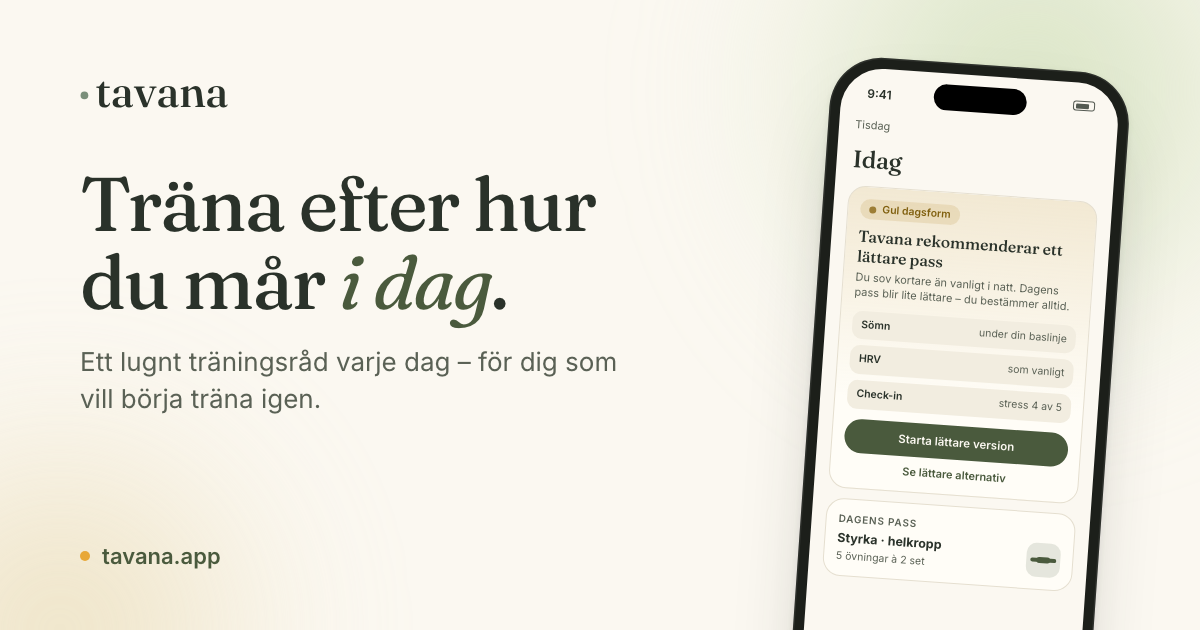
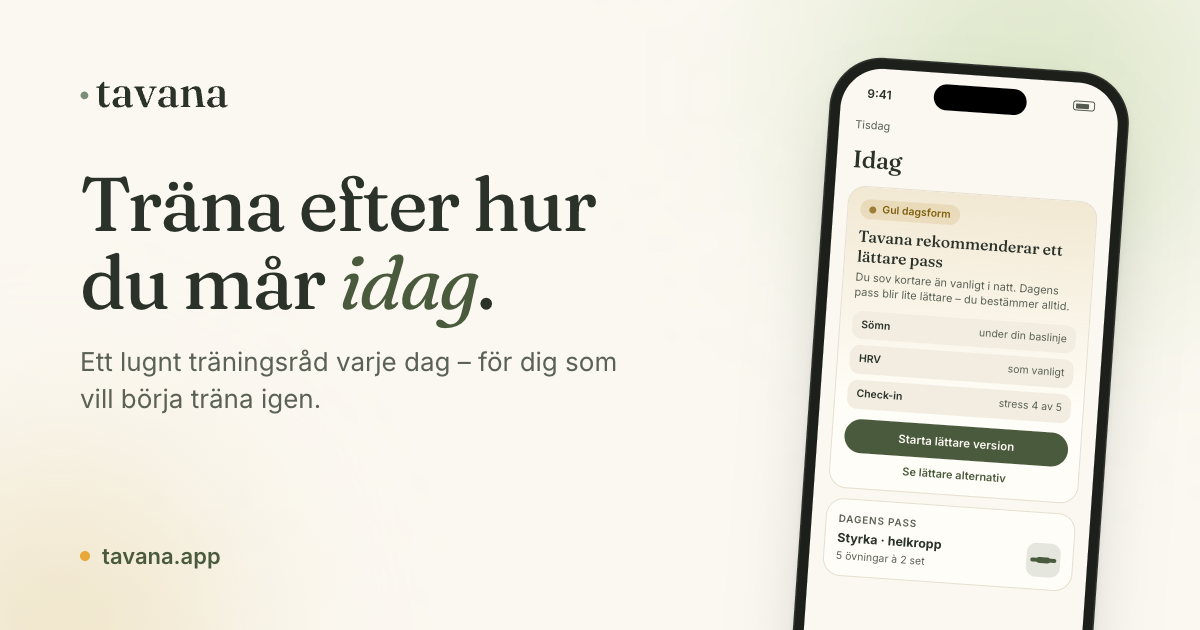
Spell idag and imorgon closed on Swedish pages

Changed region(s): [[0.2775, 0.3921, 0.4317, 0.5429]]

diff --git a/index.html b/index.html
@@ -16,13 +16,13 @@
 <!-- APP-BANNER:START --><!-- <meta name="apple-itunes-app" content="app-id=FYLL-I"> --><!-- APP-BANNER:END -->
 <meta property="og:type" content="website">
 <meta property="og:site_name" content="Tavana">
-<meta property="og:title" content="Tavana – träna efter hur du mår i dag">
+<meta property="og:title" content="Tavana – träna efter hur du mår idag">
 <meta property="og:description" content="Ett lugnt, begripligt träningsråd varje dag utifrån sömn, återhämtning och en kort check-in. För dig som vill komma tillbaka till träningen.">
 <meta property="og:url" content="https://tavana.app/">
 <meta property="og:image" content="https://tavana.app/assets/og-sv.png">
 <meta property="og:image:width" content="1200">
 <meta property="og:image:height" content="630">
-<meta property="og:image:alt" content="Tavana – Träna efter hur du mår i dag. En telefon visar rådet ”Tavana rekommenderar ett lättare pass”.">
+<meta property="og:image:alt" content="Tavana – Träna efter hur du mår idag. En telefon visar rådet ”Tavana rekommenderar ett lättare pass”.">
 <meta property="og:locale" content="sv_SE">
 <meta property="og:locale:alternate" content="en_GB">
 <meta name="twitter:card" content="summary_large_image">
@@ -72,7 +72,7 @@
   <div class="wrap hero-grid">
     <div class="hero-copy">
       <p class="eyebrow">För dig som vill börja träna igen</p>
-      <h1 id="hero-title">Träna efter hur du mår <em>i&nbsp;dag</em>.</h1>
+      <h1 id="hero-title">Träna efter hur du mår <em>idag</em>.</h1>
       <p class="lead">Kort natt, tung vecka, första passet på länge? Tavana läser av sömn, återhämtning och en snabb check-in och ger dig ett lugnt råd varje dag – styrka, kondition, återhämtning eller vila. Med en förklaring. Utan poäng och utan dåligt samvete.</p>
 
       <div class="cta" id="ladda-ned">
@@ -100,7 +100,7 @@
     <div class="hero-visual">
       <div class="float-card float-a" aria-hidden="true">
         <span class="dot dot-amber"></span>
-        <span><strong>Gul i dag</strong>jämfört med din egen baslinje</span>
+        <span><strong>Gul idag</strong>jämfört med din egen baslinje</span>
       </div>
       <div class="float-card float-b" aria-hidden="true">
         <span class="dot dot-green"></span>
@@ -246,7 +246,7 @@
         <li class="reveal">
           <span class="when">Passet</span>
           <h3>Ett set i taget</h3>
-          <p>Du följer passet övning för övning, set för set, med instruktioner. Känns en övning för tung i dag? Byt till en lättare variant direkt. Känns den för lätt? Ta ett steg upp.</p>
+          <p>Du följer passet övning för övning, set för set, med instruktioner. Känns en övning för tung idag? Byt till en lättare variant direkt. Känns den för lätt? Ta ett steg upp.</p>
         </li>
         <li class="reveal">
           <span class="when">Efteråt</span>
@@ -314,7 +314,7 @@
       </li>
       <li class="state state-red reveal">
         <h3><span class="dot dot-red" aria-hidden="true"></span>Röd</h3>
-        <span class="tag">I dag är återhämtning rätt val.</span>
+        <span class="tag">Idag är återhämtning rätt val.</span>
         <p>Signalerna avviker tydligt från din baslinje, eller så har du angett att du är sjuk. Då föreslås återhämtning eller vila – ingen ikappträning behövs.</p>
       </li>
     </ul>
@@ -398,7 +398,7 @@
     <div class="faq">
       <details>
         <summary>Jag har inte tränat på länge. Passar Tavana mig?</summary>
-        <p>Ja – det är just dig vi har tänkt på. Du börjar med tre korta frågor, inget program startar automatiskt, och du kan alltid byta en övning mot en lättare variant. Rådet utgår från hur du mår i dag, inte från var du var för två år sedan.</p>
+        <p>Ja – det är just dig vi har tänkt på. Du börjar med tre korta frågor, inget program startar automatiskt, och du kan alltid byta en övning mot en lättare variant. Rådet utgår från hur du mår idag, inte från var du var för två år sedan.</p>
       </details>
       <details>
         <summary>Måste jag koppla Apple Hälsa?</summary>
@@ -414,7 +414,7 @@
       </details>
       <details>
         <summary>Är dagsformen ett medicinskt råd?</summary>
-        <p>Nej. Den är ett stöd för hur du lägger upp träningen i dag, inte en hälsobedömning. Har du symtom eller frågor om din hälsa, kontakta vården.</p>
+        <p>Nej. Den är ett stöd för hur du lägger upp träningen idag, inte en hälsobedömning. Har du symtom eller frågor om din hälsa, kontakta vården.</p>
       </details>
       <details>
         <summary>Vad händer med min data?</summary>
@@ -438,7 +438,7 @@
     <div class="final-card">
       <img class="mark" src="/assets/apple-touch-icon.png" alt="" width="64" height="64">
       <h2 id="final">Nästa pass får gärna vara <em>ett lugnt pass</em>.</h2>
-      <p class="lead">Börja där du är. Tavana möter dig där – i dag, i morgon och de dagar som inte blev som du tänkt.</p>
+      <p class="lead">Börja där du är. Tavana möter dig där – idag, imorgon och de dagar som inte blev som du tänkt.</p>
       <div class="cta">
         <p class="cta-mode cta-soon soon-pill"><span class="live-dot" aria-hidden="true"></span>Kommer snart till iPhone</p>
         <a class="cta-mode cta-appstore store-badge" href="/app"><img src="/assets/badges/app-store-badge-sv-white.svg" alt="Ladda ned på App Store" loading="lazy" width="156" height="52"></a>
@@ -457,7 +457,7 @@
         <source srcset="/assets/logo-dark.svg" media="(prefers-color-scheme: dark)">
         <img src="/assets/logo.svg" alt="Tavana" width="132" height="40">
       </picture>
-      <p>Träning efter hur du mår i dag.</p>
+      <p>Träning efter hur du mår idag.</p>
     </div>
     <div>
       <nav aria-label="Sidfot">

diff --git a/privacy.html b/privacy.html
@@ -19,7 +19,7 @@
 <meta property="og:image" content="https://tavana.app/assets/og-sv.png">
 <meta property="og:image:width" content="1200">
 <meta property="og:image:height" content="630">
-<meta property="og:image:alt" content="Tavana – Träna efter hur du mår i dag.">
+<meta property="og:image:alt" content="Tavana – Träna efter hur du mår idag.">
 <meta property="og:locale" content="sv_SE">
 <meta name="twitter:card" content="summary_large_image">
 <link rel="icon" href="/assets/favicon-32.png" sizes="32x32" type="image/png">
@@ -113,7 +113,7 @@
     <ul><li><strong>Anthropic</strong> (USA): den data som står i avsnitt 6. Skydd: EU:s standardavtalsklausuler, som ingår i Anthropics biträdesavtal.</li><li><strong>Fly.io</strong> (amerikanskt bolag, servrar i Stockholm): EU-kommissionens standardavtalsklausuler (2021), som ingår i vårt biträdesavtal med Fly.io.</li><li><strong>Sentry</strong> (amerikanskt bolag, data i EU): EU–USA-ramverket för dataskydd (Data Privacy Framework), med EU:s standardavtalsklausuler som reserv, enligt Sentrys biträdesavtal.</li><li><strong>Vercel</strong> (webbplatsen): IP-adresser i webbplatsens åtkomstloggar kan behandlas i USA.</li></ul>
     <p>Du kan begära en kopia av skyddet genom att kontakta oss (avsnitt 15).</p>
     <h2 id="9-hur-lange-vi-sparar-uppgifter">9. Hur länge vi sparar uppgifter</h2>
-    <p>Vi sparar uppgifterna så länge du har ett konto, utom där det står något annat nedan. Vi har i dag <strong>ingen automatisk gallring</strong> av inaktiva konton.</p>
+    <p>Vi sparar uppgifterna så länge du har ett konto, utom där det står något annat nedan. Vi har idag <strong>ingen automatisk gallring</strong> av inaktiva konton.</p>
     <div class="table-wrap"><table><thead><tr><th scope="col">Uppgift</th><th scope="col">Hur länge</th></tr></thead><tbody><tr><td>Konto, profil, samtyckesval, pass, set, mallar, planer, mål, dagsform per dag, insikter och produkthändelser</td><td>Tills du raderar kontot (hälsouppgifter tidigare om du återkallar samtycket, avsnitt 4)</td></tr><tr><td>Detaljerade tidsstämplade dagsformshändelser (incheckning och bakgrundssynk)</td><td>30 dagar</td></tr><tr><td>Timvisa steg- och kaloriavläsningar</td><td>30 dagar</td></tr><tr><td>Händelser från ett pågående pass (från klocka eller telefon) för att kunna återförsöka</td><td>30 dagar</td></tr><tr><td>Inloggningssessioner</td><td>Tills sessionen löper ut (30 dagar efter senaste förnyelse) eller du loggar ut</td></tr><tr><td>Det som skickas till Anthropic (avsnitt 6)</td><td>Enligt Anthropic raderas indata och svar inom 30 dagar, utom om deras säkerhetssystem flaggar dem (upp till 2 år).</td></tr><tr><td>Felrapporter i Sentry</td><td>Upp till 90 dagar</td></tr><tr><td>Serverloggar hos Fly.io</td><td>Enligt Fly.io:s rutiner. Loggarna innehåller inte innehållet i dina anrop.</td></tr><tr><td>Säkerhetskopior hos Supabase</td><td>Upp till 7 dagar. Raderade uppgifter kan finnas kvar i säkerhetskopior tills de skrivits över.</td></tr><tr><td>Exportfiler som vi tar fram manuellt på begäran</td><td>Raderas inom 30 dagar efter leverans</td></tr></tbody></table></div>
     <p><strong>Om du raderar kontot.</strong> I appen: Profil, Inställningar, Radera konto. Då raderas ditt konto och allt som hör till det i vår databas, och data som sparats lokalt på telefonen rensas. Egna övningar du skapat raderas också, utom om någon annan använder dem; då blir de kvar utan koppling till dig.</p>
     <p><strong>Inloggning med Apple.</strong> Har du loggat in med Apple ber appen dig bekräfta med Apple när du raderar kontot. Då kopplar vi bort Tavana från ditt Apple-ID. Om bekräftelsen inte går igenom kan du välja "Radera ändå". Kontot raderas då ändå, men kopplingen hos Apple finns kvar tills du tar bort den själv i Apple-ID-inställningarna (Logga in med Apple). Är du inloggad med Google tar du bort kopplingen i ditt Google-konto.</p>
@@ -151,7 +151,7 @@ Policyn finns på <a href="https://tavana.app/privacy">https://tavana.app/privac
         <source srcset="/assets/logo-dark.svg" media="(prefers-color-scheme: dark)">
         <img src="/assets/logo.svg" alt="Tavana" width="132" height="40">
       </picture>
-      <p>Träning efter hur du mår i dag.</p>
+      <p>Träning efter hur du mår idag.</p>
     </div>
     <div>
       <nav aria-label="Sidfot">

diff --git a/terms.html b/terms.html
@@ -19,7 +19,7 @@
 <meta property="og:image" content="https://tavana.app/assets/og-sv.png">
 <meta property="og:image:width" content="1200">
 <meta property="og:image:height" content="630">
-<meta property="og:image:alt" content="Tavana – Träna efter hur du mår i dag.">
+<meta property="og:image:alt" content="Tavana – Träna efter hur du mår idag.">
 <meta property="og:locale" content="sv_SE">
 <meta name="twitter:card" content="summary_large_image">
 <link rel="icon" href="/assets/favicon-32.png" sizes="32x32" type="image/png">
@@ -70,7 +70,7 @@
     <h2 id="5-konto-och-inloggning">5. Konto och inloggning</h2>
     <ul><li>Du loggar in med Apple eller Google. Du ansvarar för att skydda ditt konto.</li><li>Uppgifterna du lämnar ska vara riktiga.</li><li>Du kan när som helst exportera dina uppgifter i appen (Inställningar, Integritet) och radera kontot i appen (Inställningar, Radera konto). Raderingen går inte att ångra. Vad som händer med dina uppgifter står i integritetspolicyn. Mer om radering: <a href="https://tavana.app/delete-account">https://tavana.app/delete-account</a>.</li><li>Vi kan stänga av ett konto som bryter mot villkoren (avsnitt 8), efter förvarning om det inte är akut.</li></ul>
     <h2 id="6-pris-och-framtida-betalfunktioner">6. Pris och framtida betalfunktioner</h2>
-    <p><strong>I dag är tjänsten gratis.</strong> Det finns inga köp i appen och du debiteras ingenting. Alla funktioner som finns i appen är tillgängliga för alla användare.</p>
+    <p><strong>Idag är tjänsten gratis.</strong> Det finns inga köp i appen och du debiteras ingenting. Alla funktioner som finns i appen är tillgängliga för alla användare.</p>
     <p>Några funktioner har en hög användningsgräns per dygn som skydd mot överbelastning och missbruk, till exempel när du lägger till egna övningar. Gränsen ligger långt över normal användning.</p>
     <p><strong>När betalfunktioner införs.</strong> Vi planerar att senare erbjuda vissa funktioner mot betalning. Innan något kostar pengar kommer vi att:</p>
     <ul><li>tydligt visa i appen vad som kostar, vad det kostar och vad som fortsätter vara gratis,</li><li>uppdatera dessa villkor med prenumerationsvillkoren och meddela dig enligt avsnitt 14,</li><li>aldrig debitera dig utan att du själv har bekräftat ett köp i App Store.</li></ul>
@@ -110,7 +110,7 @@ Support och integritetsfrågor: <a href="mailto:support@tavana.app">support@tava
         <source srcset="/assets/logo-dark.svg" media="(prefers-color-scheme: dark)">
         <img src="/assets/logo.svg" alt="Tavana" width="132" height="40">
       </picture>
-      <p>Träning efter hur du mår i dag.</p>
+      <p>Träning efter hur du mår idag.</p>
     </div>
     <div>
       <nav aria-label="Sidfot">

diff --git a/support.html b/support.html
@@ -19,7 +19,7 @@
 <meta property="og:image" content="https://tavana.app/assets/og-sv.png">
 <meta property="og:image:width" content="1200">
 <meta property="og:image:height" content="630">
-<meta property="og:image:alt" content="Tavana – Träna efter hur du mår i dag.">
+<meta property="og:image:alt" content="Tavana – Träna efter hur du mår idag.">
 <meta property="og:locale" content="sv_SE">
 <meta name="twitter:card" content="summary_large_image">
 <link rel="icon" href="/assets/favicon-32.png" sizes="32x32" type="image/png">
@@ -70,7 +70,7 @@
     <h3>Måste jag koppla Apple Hälsa?</h3>
     <p>Nej. Med Apple Hälsa kan rådet ta hänsyn till sömn, HRV och vilopuls. Utan bygger det på det du själv anger.</p>
     <h3>Är dagsformen ett medicinskt råd?</h3>
-    <p>Nej. Den är ett stöd för hur du lägger upp träningen i dag. Har du symtom eller frågor om din hälsa, kontakta vården.</p>
+    <p>Nej. Den är ett stöd för hur du lägger upp träningen idag. Har du symtom eller frågor om din hälsa, kontakta vården.</p>
   </div>
 </article>
 </main>
@@ -81,7 +81,7 @@
         <source srcset="/assets/logo-dark.svg" media="(prefers-color-scheme: dark)">
         <img src="/assets/logo.svg" alt="Tavana" width="132" height="40">
       </picture>
-      <p>Träning efter hur du mår i dag.</p>
+      <p>Träning efter hur du mår idag.</p>
     </div>
     <div>
       <nav aria-label="Sidfot">

diff --git a/delete-account.html b/delete-account.html
@@ -19,7 +19,7 @@
 <meta property="og:image" content="https://tavana.app/assets/og-sv.png">
 <meta property="og:image:width" content="1200">
 <meta property="og:image:height" content="630">
-<meta property="og:image:alt" content="Tavana – Träna efter hur du mår i dag.">
+<meta property="og:image:alt" content="Tavana – Träna efter hur du mår idag.">
 <meta property="og:locale" content="sv_SE">
 <meta name="twitter:card" content="summary_large_image">
 <link rel="icon" href="/assets/favicon-32.png" sizes="32x32" type="image/png">
@@ -80,7 +80,7 @@
         <source srcset="/assets/logo-dark.svg" media="(prefers-color-scheme: dark)">
         <img src="/assets/logo.svg" alt="Tavana" width="132" height="40">
       </picture>
-      <p>Träning efter hur du mår i dag.</p>
+      <p>Träning efter hur du mår idag.</p>
     </div>
     <div>
       <nav aria-label="Sidfot">

diff --git a/og-src/og-sv.html b/og-src/og-sv.html
@@ -10,7 +10,7 @@
 <body class="og">
 <div class="og-copy">
   <img src="/assets/logo.svg" alt="Tavana" width="150" height="45">
-  <h1>Träna efter hur du mår <em>i&nbsp;dag</em>.</h1>
+  <h1>Träna efter hur du mår <em>idag</em>.</h1>
   <p>Ett lugnt träningsråd varje dag – för dig som vill börja träna igen.</p>
 </div>
 <div class="og-url">tavana.app</div>
